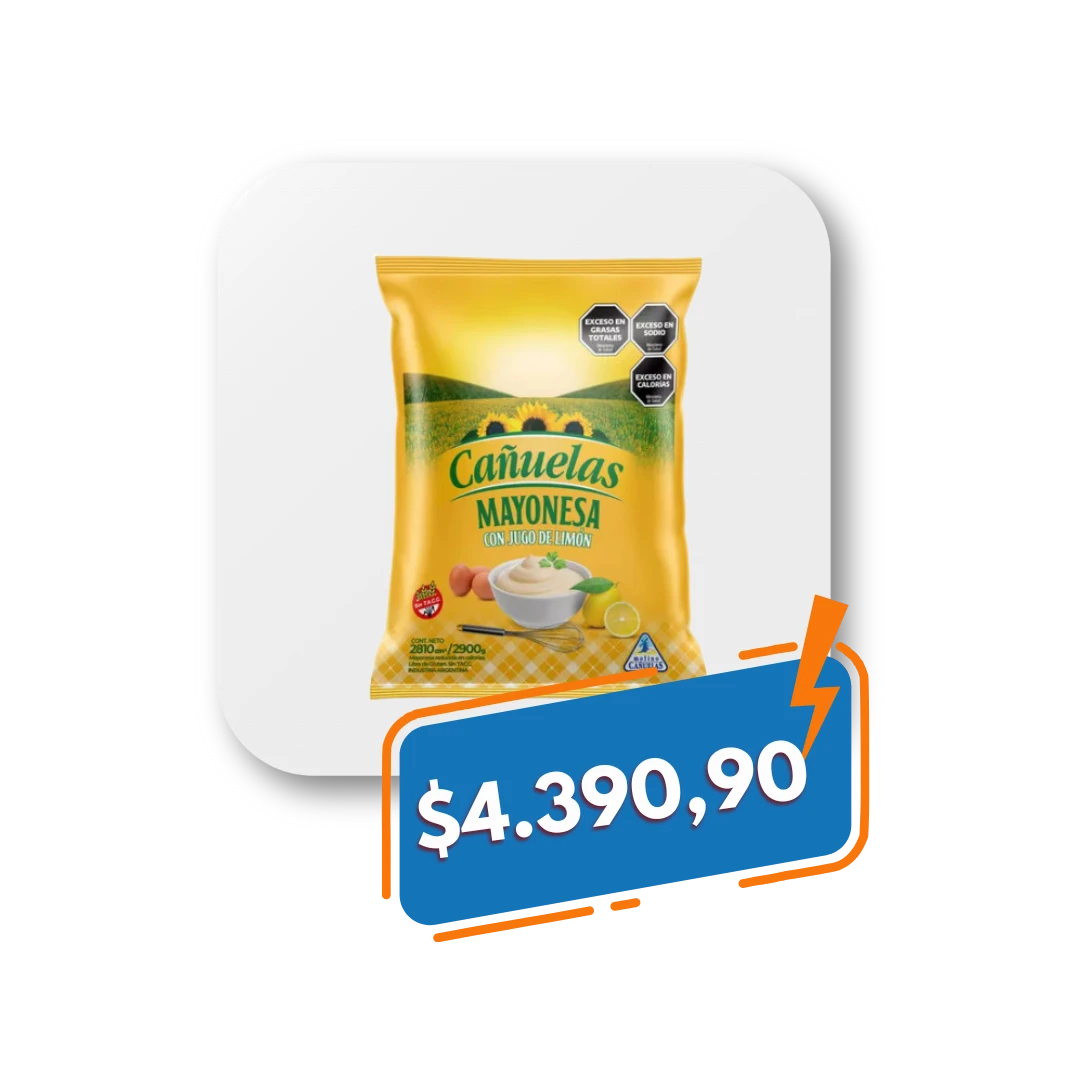
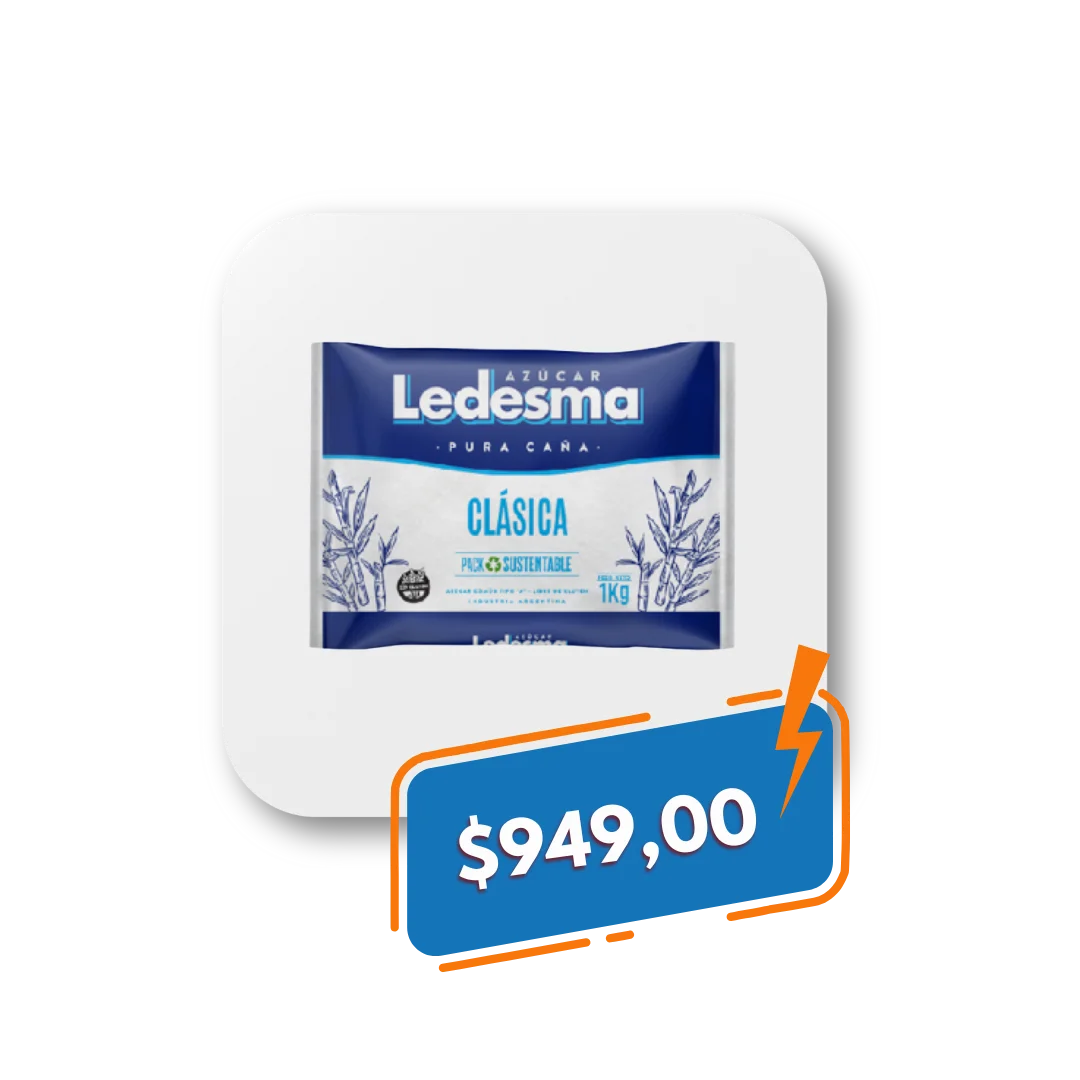
actualizando ofertas

Changed region(s): [[0.2139, 0.1528, 0.825, 0.9167]]

diff --git a/src/components/atoms/carousel/Carousel.jsx b/src/components/atoms/carousel/Carousel.jsx
@@ -35,19 +35,19 @@ export const Carousel = () => {
       </SwiperSlide>
       <SwiperSlide className={style.swiperSlide}>
         <div className={style.title}>
-          <p>SALCHICHAS JEED FOOD x6U</p>
+          <p>SALCHICHAS FELA x6u</p>
         </div>
         <img src="/assets/ofertas/3.webp" alt="oferta3" />
       </SwiperSlide>
       <SwiperSlide className={style.swiperSlide}>
         <div className={style.title}>
-          <p>PURE DE TOMATES DOÑA PUPA 520gr</p>
+          <p>YOUGURT SACHET MILKAUT</p>
         </div>
         <img src="/assets/ofertas/4.webp" alt="oferta4" />
       </SwiperSlide>
       <SwiperSlide className={style.swiperSlide}>
         <div className={style.title}>
-          <p>MAYONESA CAÑUELAS 2,9Kg</p>
+          <p>AZÚCAR LEDESMA 1Kg</p>
         </div>
         <img src="/assets/ofertas/5.webp" alt="oferta5" />
       </SwiperSlide>
@@ -62,6 +62,12 @@ export const Carousel = () => {
           <p>TALLARINES MAROLIO 500gr</p>
         </div>
         <img src="/assets/ofertas/7.webp" alt="oferta6" />
+      </SwiperSlide>
+      <SwiperSlide className={style.swiperSlide}>
+        <div className={style.title}>
+          <p>SHAMPOO FREAK 400ml</p>
+        </div>
+        <img src="/assets/ofertas/8.webp" alt="oferta6" />
       </SwiperSlide>
       {isDesktop && (
         <>

diff --git a/src/components/pages/ofertas/OfertasPage.jsx b/src/components/pages/ofertas/OfertasPage.jsx
@@ -38,7 +38,7 @@ export const OfertasPage = () => {
             <div className={style.portada}>
               <img src="\assets\images\torta-portada.png" alt="sign" />
               <div className={style.ledesma}>
-                <img src="\assets\images\ledesma-portada.webp" alt="sign"/>
+                <img src="\assets\ofertas\5.webp" alt="sign"/>
                 <img src="\assets\images\32.png" alt="sign"/>
               </div>
             </div>

diff --git a/src/components/atoms/ofertas/Ofertas.module.css b/src/components/atoms/ofertas/Ofertas.module.css
@@ -6,6 +6,7 @@
     background-image: url('/assets/images/fondo-ofertas.webp');
     height: 650px;
     padding-bottom: 20px;
+    background-size: cover;
 
     padding: 10px;
     width: 98%;

diff --git a/src/components/pages/ofertas/OfertasPage.module.css b/src/components/pages/ofertas/OfertasPage.module.css
@@ -107,7 +107,7 @@ p {
     }
 
     .ledesma img {
-        width: 50%;
+        width: 45%;
         height: auto;
         object-fit: contain;
         border-radius: 8px;
